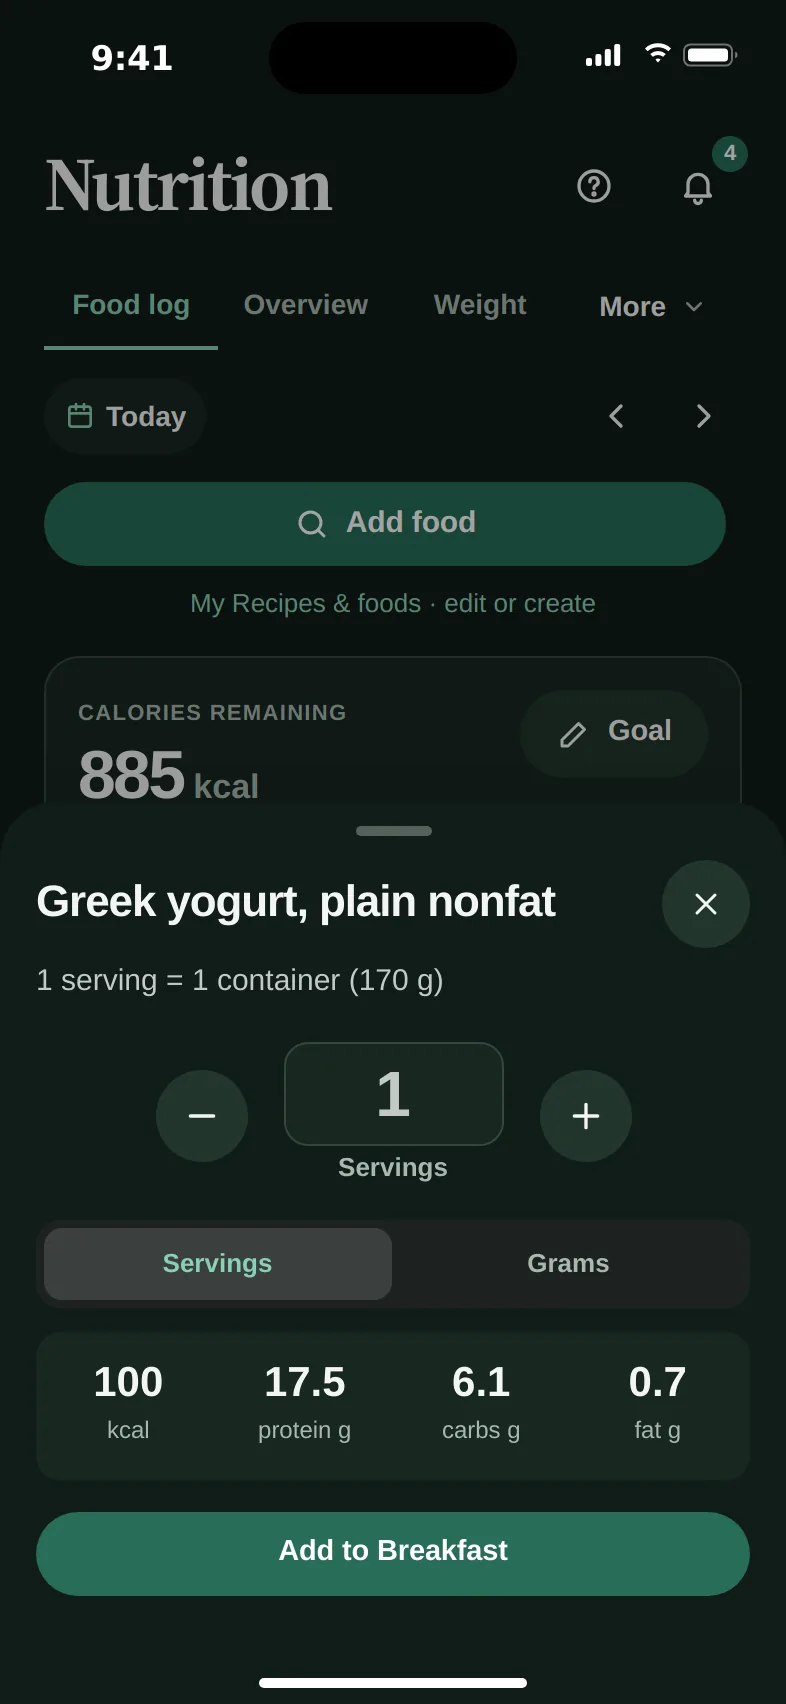
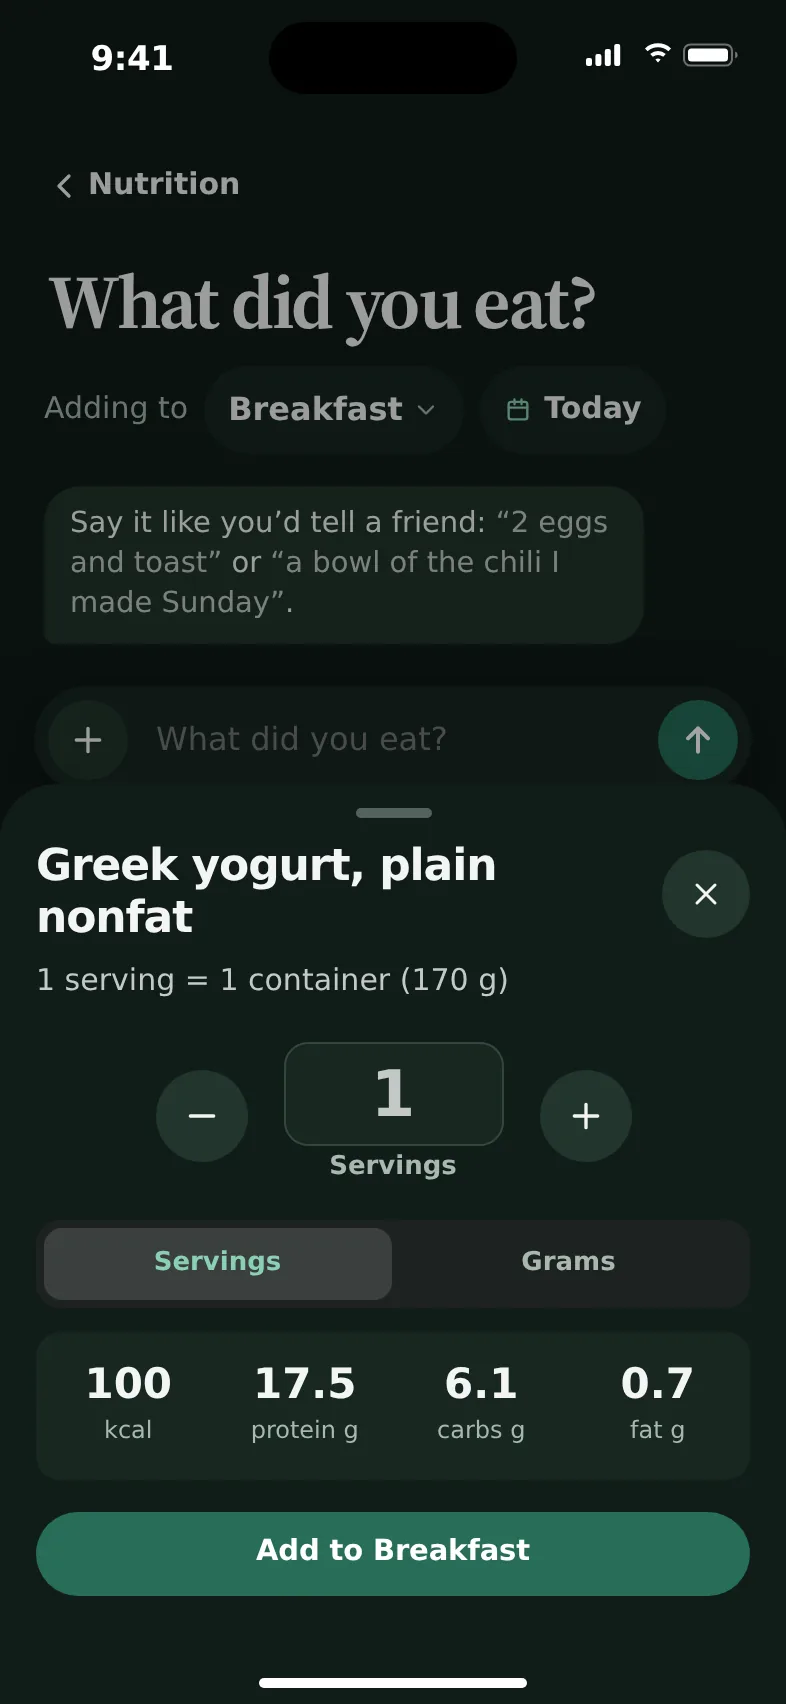
Website: Scan example on "What did you eat?"; tap outside to close an enlarged picture (#119)
* Website: the Scan example starts on "What did you eat?", where scanning to log really begins

* Website: tap anywhere outside the arrows to close an enlarged screenshot

---------

diff --git a/dev/screenshots/take.js b/dev/screenshots/take.js
@@ -174,8 +174,12 @@ function chrome(dark) {
           if (overlap > 0) window.scrollBy(0, overlap);
         });
       }
-      if (opt.scan) {       // what a scan finds: the product's sheet, one container, ready to add to breakfast
-        await page.evaluate(async (code) => { const f = await api('/api/food/barcode/' + code); amountSheet(f, {day: isoDay(new Date()), meal: 'breakfast'}, () => {}); }, opt.scan);
+      if (opt.scan) {       // what a scan finds: the product's sheet, one container, ready to add to breakfast. Scanning to log
+        // starts on the "What did you eat?" page (+ › Scan a barcode), so that page sits behind the sheet, as in the app.
+        await page.evaluate(() => { App.me.ai_ok = true; addSheet(isoDay(new Date()), 'breakfast'); });
+        await page.click('#as-photo');
+        await page.waitForURL('**/food/describe?**');
+        await page.evaluate(async (code) => { const f = await api('/api/food/barcode/' + code); amountSheet(f, {day: $('#ql-day').value, meal: $('#ql-meal').value}, () => {}); }, opt.scan);
         await page.locator('#am-p b').first().waitFor();
         await page.evaluate(() => document.activeElement.blur());
       }

diff --git a/site/assets/zoom.js b/site/assets/zoom.js
@@ -1,5 +1,6 @@
 // Tap a screenshot to see it full size (2026-10-13, Ben: on a phone the shots were too small to read). The others in the
-// same section come along: swipe sideways (or the arrows / arrow keys) to move between them, tap the picture or × to close.
+// same section come along: swipe sideways (or the arrows / arrow keys) to move between them. Tap anywhere outside the
+// arrows (the picture or the dark space around it), press Escape or × to go back to where you were (2026-10-16, Ben).
 (() => {
   'use strict';
   const frames = (sec) => [...sec.querySelectorAll('.frame img')];
@@ -25,7 +26,7 @@
     dlg.querySelector('.close').onclick = () => dlg.close();
     dlg.querySelector('.prev').onclick = () => step(-1);
     dlg.querySelector('.next').onclick = () => step(1);
-    strip.addEventListener('click', (e) => { if (e.target.tagName === 'IMG') dlg.close(); });
+    strip.addEventListener('click', () => dlg.close());   // the picture or the space around it; a swipe doesn't click
     strip.addEventListener('scroll', () => show(at()), {passive: true});
     dlg.addEventListener('keydown', (e) => {
       if (e.key === 'ArrowRight' || e.key === 'ArrowLeft') {

diff --git a/site/assets/site.css b/site/assets/site.css
@@ -287,6 +287,7 @@ footer a { color: var(--ink2); }
 .zoom .slide { flex: 0 0 100%; height: 100%; overflow-y: auto; scroll-snap-align: center; display: grid; place-items: start center;
   padding: calc(env(safe-area-inset-top) + 64px) 16px calc(env(safe-area-inset-bottom) + 24px); }
 .zoom .slide img { width: min(100%, 430px, calc((100dvh - 96px) * 786 / 1704)); height: auto; border-radius: 28px; cursor: zoom-out; }
+.zoom .slide { cursor: zoom-out; }
 @media (max-width: 560px) { .zoom .slide img { width: 100%; } }    /* a phone: full width, scroll down for the rest */
 .zoom .bar { position: absolute; left: 0; right: 0; top: 0; display: flex; align-items: center; justify-content: space-between; gap: 12px;
   padding: calc(env(safe-area-inset-top) + 12px) 16px 12px; pointer-events: none; }

diff --git a/site/index.html b/site/index.html
@@ -23,7 +23,7 @@
 <link rel="preconnect" href="https://fonts.gstatic.com" crossorigin>
 <link rel="stylesheet" href="https://fonts.googleapis.com/css2?family=Figtree:wght@400;500;600&family=JetBrains+Mono:wght@400;500&display=swap">
 <link rel="stylesheet" href="assets/theme.css?v=1">
-<link rel="stylesheet" href="assets/site.css?v=12">
+<link rel="stylesheet" href="assets/site.css?v=13">
 </head>
 <body>
 <a class="skip-link" href="#main">Skip to content</a>
@@ -117,7 +117,7 @@
     </div>
   </div>
 </footer>
-<script src="assets/zoom.js?v=2" defer></script>
+<script src="assets/zoom.js?v=3" defer></script>
 <script src="assets/daily-preview.js?v=1" defer></script>
 <script src="assets/track.js?v=2" defer></script>
 </body>

diff --git a/site/templates/index.html b/site/templates/index.html
@@ -23,7 +23,7 @@
 <link rel="preconnect" href="https://fonts.gstatic.com" crossorigin>
 <link rel="stylesheet" href="https://fonts.googleapis.com/css2?family=Figtree:wght@400;500;600&family=JetBrains+Mono:wght@400;500&display=swap">
 <link rel="stylesheet" href="assets/theme.css?v=1">
-<link rel="stylesheet" href="assets/site.css?v=12">
+<link rel="stylesheet" href="assets/site.css?v=13">
 </head>
 <body>
 <a class="skip-link" href="#main">Skip to content</a>
@@ -117,7 +117,7 @@
     </div>
   </div>
 </footer>
-<script src="assets/zoom.js?v=2" defer></script>
+<script src="assets/zoom.js?v=3" defer></script>
 <script src="assets/daily-preview.js?v=1" defer></script>
 <script src="assets/track.js?v=2" defer></script>
 </body>

diff --git a/site/guide.html b/site/guide.html
@@ -23,7 +23,7 @@
 <link rel="preconnect" href="https://fonts.gstatic.com" crossorigin>
 <link rel="stylesheet" href="https://fonts.googleapis.com/css2?family=Figtree:wght@400;500;600&family=JetBrains+Mono:wght@400;500&display=swap">
 <link rel="stylesheet" href="assets/theme.css?v=1">
-<link rel="stylesheet" href="assets/site.css?v=12">
+<link rel="stylesheet" href="assets/site.css?v=13">
 </head>
 <body>
 <a class="skip-link" href="#main">Skip to content</a>
@@ -101,7 +101,7 @@
     </div>
   </div>
 </footer>
-<script src="assets/zoom.js?v=2" defer></script>
+<script src="assets/zoom.js?v=3" defer></script>
 <script src="assets/guide.js?v=1" defer></script>
 </body>
 </html>

diff --git a/site/templates/guide.html b/site/templates/guide.html
@@ -23,7 +23,7 @@
 <link rel="preconnect" href="https://fonts.gstatic.com" crossorigin>
 <link rel="stylesheet" href="https://fonts.googleapis.com/css2?family=Figtree:wght@400;500;600&family=JetBrains+Mono:wght@400;500&display=swap">
 <link rel="stylesheet" href="assets/theme.css?v=1">
-<link rel="stylesheet" href="assets/site.css?v=12">
+<link rel="stylesheet" href="assets/site.css?v=13">
 </head>
 <body>
 <a class="skip-link" href="#main">Skip to content</a>
@@ -99,7 +99,7 @@
     </div>
   </div>
 </footer>
-<script src="assets/zoom.js?v=2" defer></script>
+<script src="assets/zoom.js?v=3" defer></script>
 <script src="assets/guide.js?v=1" defer></script>
 </body>
 </html>

diff --git a/site/food.html b/site/food.html
@@ -23,7 +23,7 @@
 <link rel="preconnect" href="https://fonts.gstatic.com" crossorigin>
 <link rel="stylesheet" href="https://fonts.googleapis.com/css2?family=Figtree:wght@400;500;600&family=JetBrains+Mono:wght@400;500&display=swap">
 <link rel="stylesheet" href="assets/theme.css?v=1">
-<link rel="stylesheet" href="assets/site.css?v=12">
+<link rel="stylesheet" href="assets/site.css?v=13">
 </head>
 <body>
 <a class="skip-link" href="#main">Skip to content</a>
@@ -142,6 +142,6 @@
     </div>
   </div>
 </footer>
-<script src="assets/zoom.js?v=2" defer></script>
+<script src="assets/zoom.js?v=3" defer></script>
 </body>
 </html>

diff --git a/site/templates/food.html b/site/templates/food.html
@@ -23,7 +23,7 @@
 <link rel="preconnect" href="https://fonts.gstatic.com" crossorigin>
 <link rel="stylesheet" href="https://fonts.googleapis.com/css2?family=Figtree:wght@400;500;600&family=JetBrains+Mono:wght@400;500&display=swap">
 <link rel="stylesheet" href="assets/theme.css?v=1">
-<link rel="stylesheet" href="assets/site.css?v=12">
+<link rel="stylesheet" href="assets/site.css?v=13">
 </head>
 <body>
 <a class="skip-link" href="#main">Skip to content</a>
@@ -142,6 +142,6 @@
     </div>
   </div>
 </footer>
-<script src="assets/zoom.js?v=2" defer></script>
+<script src="assets/zoom.js?v=3" defer></script>
 </body>
 </html>

diff --git a/site/templates/training.html b/site/templates/training.html
@@ -23,7 +23,7 @@
 <link rel="preconnect" href="https://fonts.gstatic.com" crossorigin>
 <link rel="stylesheet" href="https://fonts.googleapis.com/css2?family=Figtree:wght@400;500;600&family=JetBrains+Mono:wght@400;500&display=swap">
 <link rel="stylesheet" href="assets/theme.css?v=1">
-<link rel="stylesheet" href="assets/site.css?v=12">
+<link rel="stylesheet" href="assets/site.css?v=13">
 </head>
 <body>
 <a class="skip-link" href="#main">Skip to content</a>
@@ -152,6 +152,6 @@
     </div>
   </div>
 </footer>
-<script src="assets/zoom.js?v=2" defer></script>
+<script src="assets/zoom.js?v=3" defer></script>
 </body>
 </html>

diff --git a/site/training.html b/site/training.html
@@ -23,7 +23,7 @@
 <link rel="preconnect" href="https://fonts.gstatic.com" crossorigin>
 <link rel="stylesheet" href="https://fonts.googleapis.com/css2?family=Figtree:wght@400;500;600&family=JetBrains+Mono:wght@400;500&display=swap">
 <link rel="stylesheet" href="assets/theme.css?v=1">
-<link rel="stylesheet" href="assets/site.css?v=12">
+<link rel="stylesheet" href="assets/site.css?v=13">
 </head>
 <body>
 <a class="skip-link" href="#main">Skip to content</a>
@@ -152,6 +152,6 @@
     </div>
   </div>
 </footer>
-<script src="assets/zoom.js?v=2" defer></script>
+<script src="assets/zoom.js?v=3" defer></script>
 </body>
 </html>

diff --git a/site/friends.html b/site/friends.html
@@ -23,7 +23,7 @@
 <link rel="preconnect" href="https://fonts.gstatic.com" crossorigin>
 <link rel="stylesheet" href="https://fonts.googleapis.com/css2?family=Figtree:wght@400;500;600&family=JetBrains+Mono:wght@400;500&display=swap">
 <link rel="stylesheet" href="assets/theme.css?v=1">
-<link rel="stylesheet" href="assets/site.css?v=12">
+<link rel="stylesheet" href="assets/site.css?v=13">
 </head>
 <body>
 <a class="skip-link" href="#main">Skip to content</a>
@@ -98,6 +98,6 @@
     </div>
   </div>
 </footer>
-<script src="assets/zoom.js?v=2" defer></script>
+<script src="assets/zoom.js?v=3" defer></script>
 </body>
 </html>
